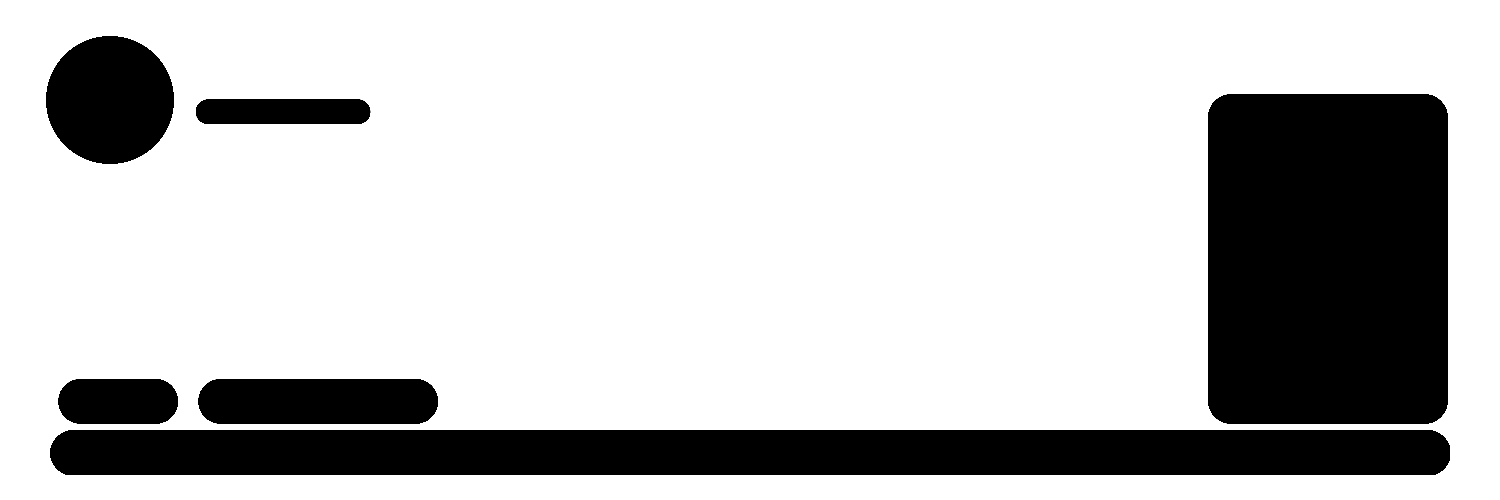
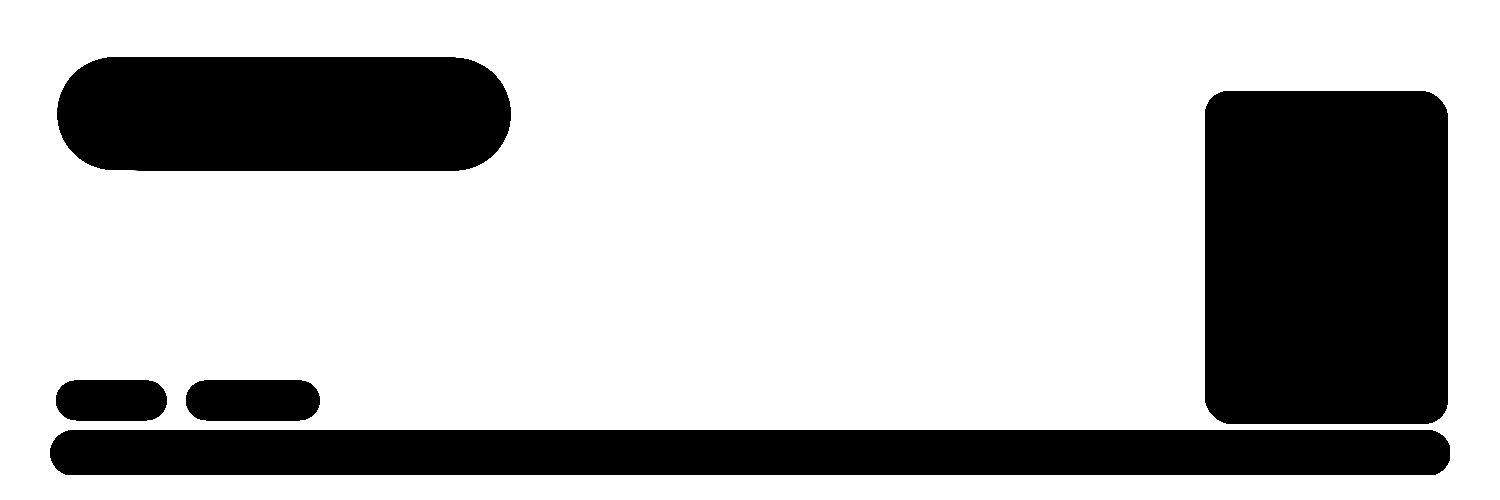
please work istg

diff --git a/cogs/levels.py b/cogs/levels.py
@@ -1,5 +1,6 @@
 import asyncio
 import re
+import textwrap
 import discord
 from discord.ext import commands, tasks
 from random import randint
@@ -571,9 +572,9 @@ class levels(commands.Cog):
         return rounded_gradient, mask
 
     def get_avatar(self, avatar: BytesIO) -> Tuple[Image.Image, Image.Image]:
-        circle = Image.open('./assets/circle-mask.png').resize((128, 128)).convert('L')
+        circle = Image.open('./assets/circle-mask.png').resize((117, 117)).convert('L')
         avatar_image = Image.open(avatar).convert('RGBA')
-        avatar_image = avatar_image.resize((128, 128))
+        avatar_image = avatar_image.resize((117, 117))
         return avatar_image, circle
 
     def human_format(self, number: int) -> str:
@@ -622,6 +623,24 @@ class levels(commands.Cog):
 
         return percentage, xp_progress_have, xp_progress_need, lvl
 
+    def draw_centered_text(self, draw: ImageDraw.ImageDraw,levels: LevelRow, text: str, font: ImageFont.FreeTypeFont, *, x_center: int, y_start: int, line_spacing: int = 5):
+        """Draws multiline text centered at x_center, starting from y_start."""
+        lines = text.split('\n')
+        for line in lines:
+            text_width, text_height = draw.textsize(line, font=font)
+            x_position = x_center - text_width // 2
+            draw.text((x_position, y_start), line, font=font, fill=levels["color"])
+            y_start += text_height + line_spacing
+
+    def draw_centered_text2(self, draw: ImageDraw.ImageDraw,levels: LevelRow, text: str, font: ImageFont.FreeTypeFont, *, x_center: int, y_start: int, line_spacing: int = 5):
+        """Draws multiline text centered at x_center, starting from y_start."""
+        lines = text.split('\n')
+        for line in lines:
+            text_width, text_height = draw.textsize(line, font=font)
+            x_position = x_center - text_width // 2
+            draw.text((x_position, y_start), line, font=font, fill=levels["color2"])
+            y_start += text_height + line_spacing            
+
     def get_card(self, avatar: BytesIO, levels: LevelRow, rank: int, user: discord.User, guild: discord.Guild) -> BytesIO:
         percentage, xp_have, xp_need, level = self.xp_calculations(levels)
         card = Image.new('RGBA', size=(1500, 500), color='grey')
@@ -662,7 +681,7 @@ class levels(commands.Cog):
         card.paste(bg, (0, 0))
         card.paste(bg_frosted, (0, 0), bg_frosted)
         card.paste(bar, (50, 430), mask_bar)
-        card.paste(avatar_paste, (46, 36), circle)
+        card.paste(avatar_paste, (55, 55), circle)
 
         leads_role = 753678720119603341
         has_leads_role = any(role.id == leads_role for role in user.roles)
@@ -757,8 +776,6 @@ class levels(commands.Cog):
         else:
             card.paste(empty_image, (1375, 365), empty_image)
 
-        size50 = ImageFont.truetype("./fonts/IntegralCF-Regular.otf", size=50)
-        size46 = ImageFont.truetype("./fonts/IntegralCF-Regular.otf", size=46)
         size33 = ImageFont.truetype("./fonts/IntegralCF-Regular.otf", size=33)
         size18 = ImageFont.truetype("./fonts/IntegralCF-Regular.otf", size=18)
         size25 = ImageFont.truetype("./fonts/IntegralCF-Regular.otf", size=25)
@@ -766,14 +783,22 @@ class levels(commands.Cog):
         messages = levels["messages"]
         msgs = self.human_format(messages)
 
+        #WRAPPED TEXT
+        ranked = f"{str(rank)}"
+        wrapped_rank = "\n".join(textwrap.fill(line, width=75) for line in ranked.splitlines())
+        self.draw_centered_text2(draw, text=wrapped_rank, font=size25, x_center=111, y_start=383, levels=levels)
+
+        wrapped_rank = "\n".join(textwrap.fill(line, width=75) for line in msgs.splitlines())
+        self.draw_centered_text2(draw, text=wrapped_rank, font=size25, x_center=252, y_start=383, levels=levels)
+
         draw.text((683, 427), f'{xp_have} / {xp_need}', fill="#ffffff", font=size33)
-        draw.text((200, 68), f"{user.name}", fill=levels['color2'], font=size25)
-        draw.text((200, 99), f"chroma levels", fill=levels['color'], font=size18)
+        draw.text((181, 87), f"{user.name}", fill=levels['color2'], font=size25)
+        draw.text((181, 117), f"chroma levels", fill=levels['color'], font=size18)
+        draw.text((200, 367), f"messages", fill=levels['color'], font=size18)
+        draw.text((84, 367), f"rank", fill=levels['color'], font=size18)
         draw.text((1275, 75), f"badges", fill=levels['color2'], font=size25)
-        draw.text((235, 383), f'{msgs} msgs', fill=levels['color'], font=size25)
-        draw.text((70, 383), f'rank {str(rank)}', fill=levels['color2'], font=size25)
         draw.text((75, 427), f'{level-1}', fill=levels['color2'], font=size33)
-        draw.text((1400, 427), f'{level}', fill=levels['color'], font=size33)
+        draw.text((1380, 427), f'{level}', fill=levels['color'], font=size33)
 
         buffer = BytesIO()
         card.save(buffer, 'png')
